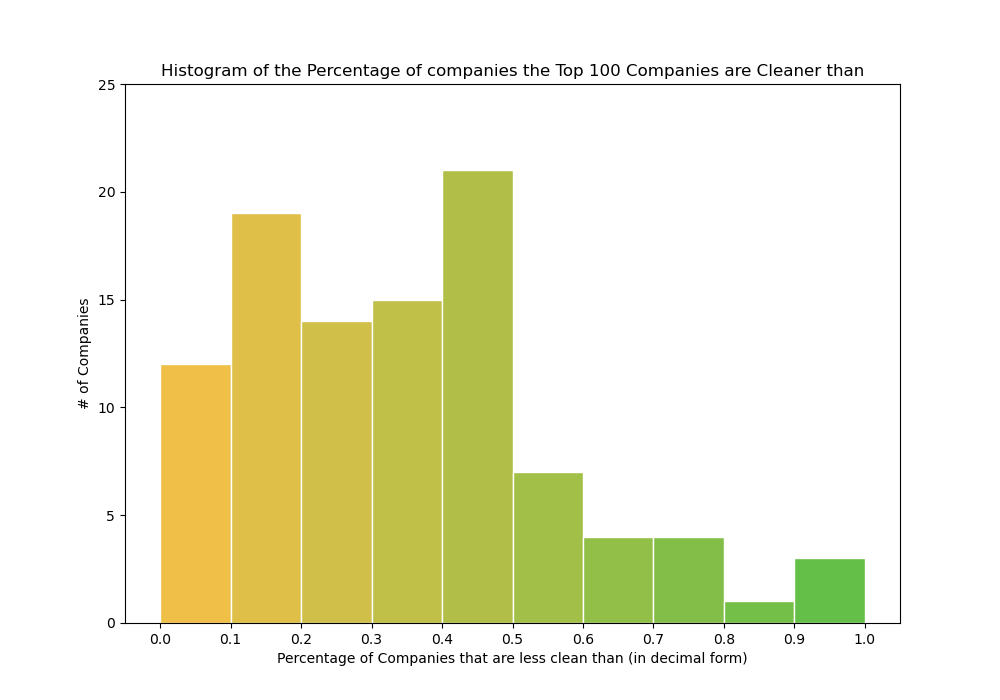
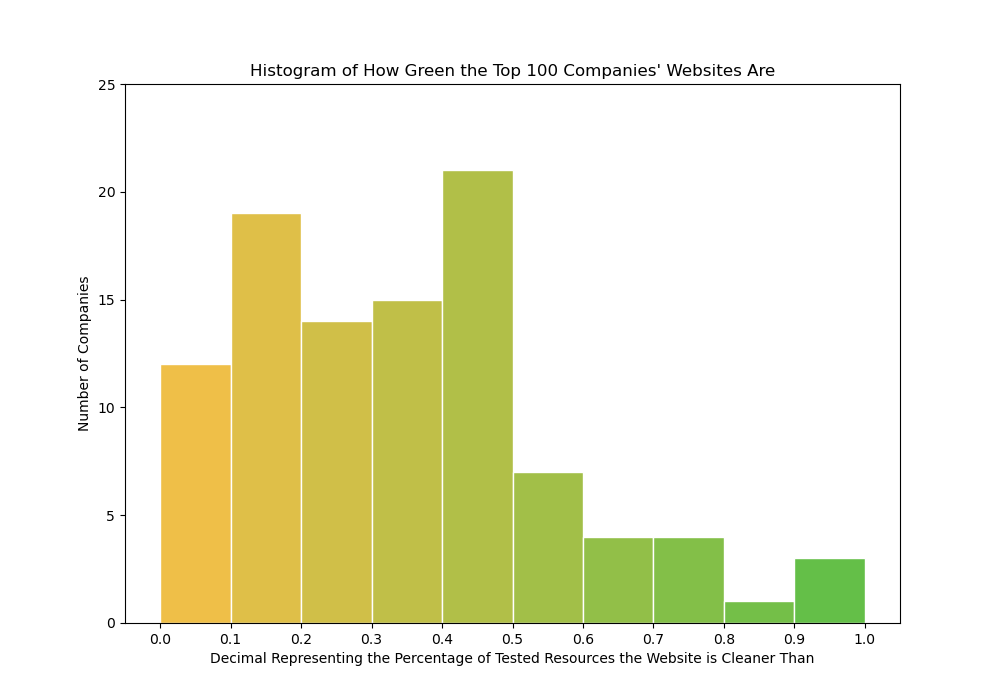
Final touches

Changed region(s): [[0.155, 0.09, 0.868, 0.12], [0.217, 0.93, 0.806, 0.96], [0.062, 0.39, 0.093, 0.6]]

diff --git a/driver.py b/driver.py
@@ -24,8 +24,6 @@ def pie_calc(cur, conn):
         cur.execute(f"SELECT COUNT(Green.label) FROM Environment JOIN Green ON Environment.green_id = Green.id WHERE Green.label = '{leb}'")
         result = cur.fetchone()
         d[gl[0]] = result[0]
-        # print("label:", gl, "result:", result[0])
-        # print(d)
     
     return d
 
@@ -37,14 +35,13 @@ def create_pie(filename):
     pie_chart = dict["green_count"]
 
     x = list(pie_chart.values())
-    # plt.style.use('_mpl-gallery-nogrid')
     fig, ax = plt.subplots()
     ax.axis('off')
 
     labels = 'Green', 'Not Green'
 
     ax.pie(x, radius= 8, center=(4,4), wedgeprops={"linewidth": 1, "edgecolor": "white"}, frame=True, labels=labels, autopct='%1.1f%%', colors=[(0.24, 0.69, 0.1, 0.8),(0.924, 0.69, 0.1, 0.8)])
-    ax.set_title("Proportion of Top 100 Company's Websites that are considered Green")
+    ax.set_title("Proportion of Top 100 Companies' Websites That Are Considered Green")
 
     fig.savefig('Pie.png')
 
@@ -64,9 +61,9 @@ def create_histogram(cur, conn):
     fig, ax = plt.subplots(figsize =(10, 7))
     N, bins, patches = ax.hist(a, bins = [0, 0.1, 0.2, 0.3, 0.4, 0.5, 0.6, 0.7, 0.8, 0.9, 1], edgecolor='white', linewidth=1)
 
-    ax.set_title('Histogram of the Percentage of companies the Top 100 Companies are Cleaner than')
-    ax.set_xlabel('Percentage of Companies that are less clean than (in decimal form)')
-    ax.set_ylabel('# of Companies')
+    ax.set_title("Histogram of How Green the Top 100 Companies' Websites Are")
+    ax.set_xlabel('Decimal Representing the Percentage of Tested Resources the Website is Cleaner Than')
+    ax.set_ylabel('Number of Companies')
     ax.set_ybound(0,25)
     ax.set_xticks([0, 0.1, 0.2, 0.3, 0.4, 0.5, 0.6, 0.7, 0.8, 0.9, 1])
 
@@ -116,7 +113,7 @@ def create_bar_one(filename):
 
     ax.set_xlabel('Average Stock Price ($)')
     ax.set_ylabel('Company Name')
-    ax.set_title('Top 10 Companies w/the Highest Average Stock Price')
+    ax.set_title('Top 10 Companies with the Highest Average Stock Price')
 
     for i in range(10):
         ax.text(float(y[i]) + 100, i, '$' + str(y[i]), ha = 'center')
@@ -135,8 +132,6 @@ def bar_two_calc(cur, conn):
     data_list = cur.fetchall()
     
     for data in data_list:
-        # cb = float('{:0.3e}'.format(float(data[0]) / float(data[1])))
-        # cb = float(data[0]) / float(data[1])
         cb = float(data[0]) / (float(data[1]) * 0.00001)
         tup_l.append((cb, data[2], int(data[3])))
 

diff --git a/stockInfo.py b/stockInfo.py
@@ -10,10 +10,6 @@ import re
 # financial modeling prep API Key: 7b82b2f514ddca127fb725b5c725eb67
 
 def get_jsonparsed_data(url):
-    # response = urlopen(url, cafile=certifi.where())
-    # data = response.read().decode("utf-8")
-    # return json.loads(data)
-
     data = requests.get(url)
     return data.json()
 
@@ -77,8 +73,6 @@ def stockInfo():
         cur.execute('INSERT OR IGNORE INTO Financial (id, curr_price, low_price, high_price, website) VALUES (?,?,?,?,?)', (int(webs[i][0]), float(price), range_low, range_high, website))
 
     conn.commit()
-
-    # if cur.fetchone() == None:
 
     
 

diff --git a/environment.py b/environment.py
@@ -114,7 +114,6 @@ def environment():
         cur.execute('INSERT OR IGNORE INTO Environment (id, green_id, cleaner_than, bytes, CO2) VALUES (?,?,?,?,?)', (int(finance[i][0]), green_id, clean, bit, carbon))
         conn.commit()
 
-    # if cur.fetchone() == None:
 
     
 
